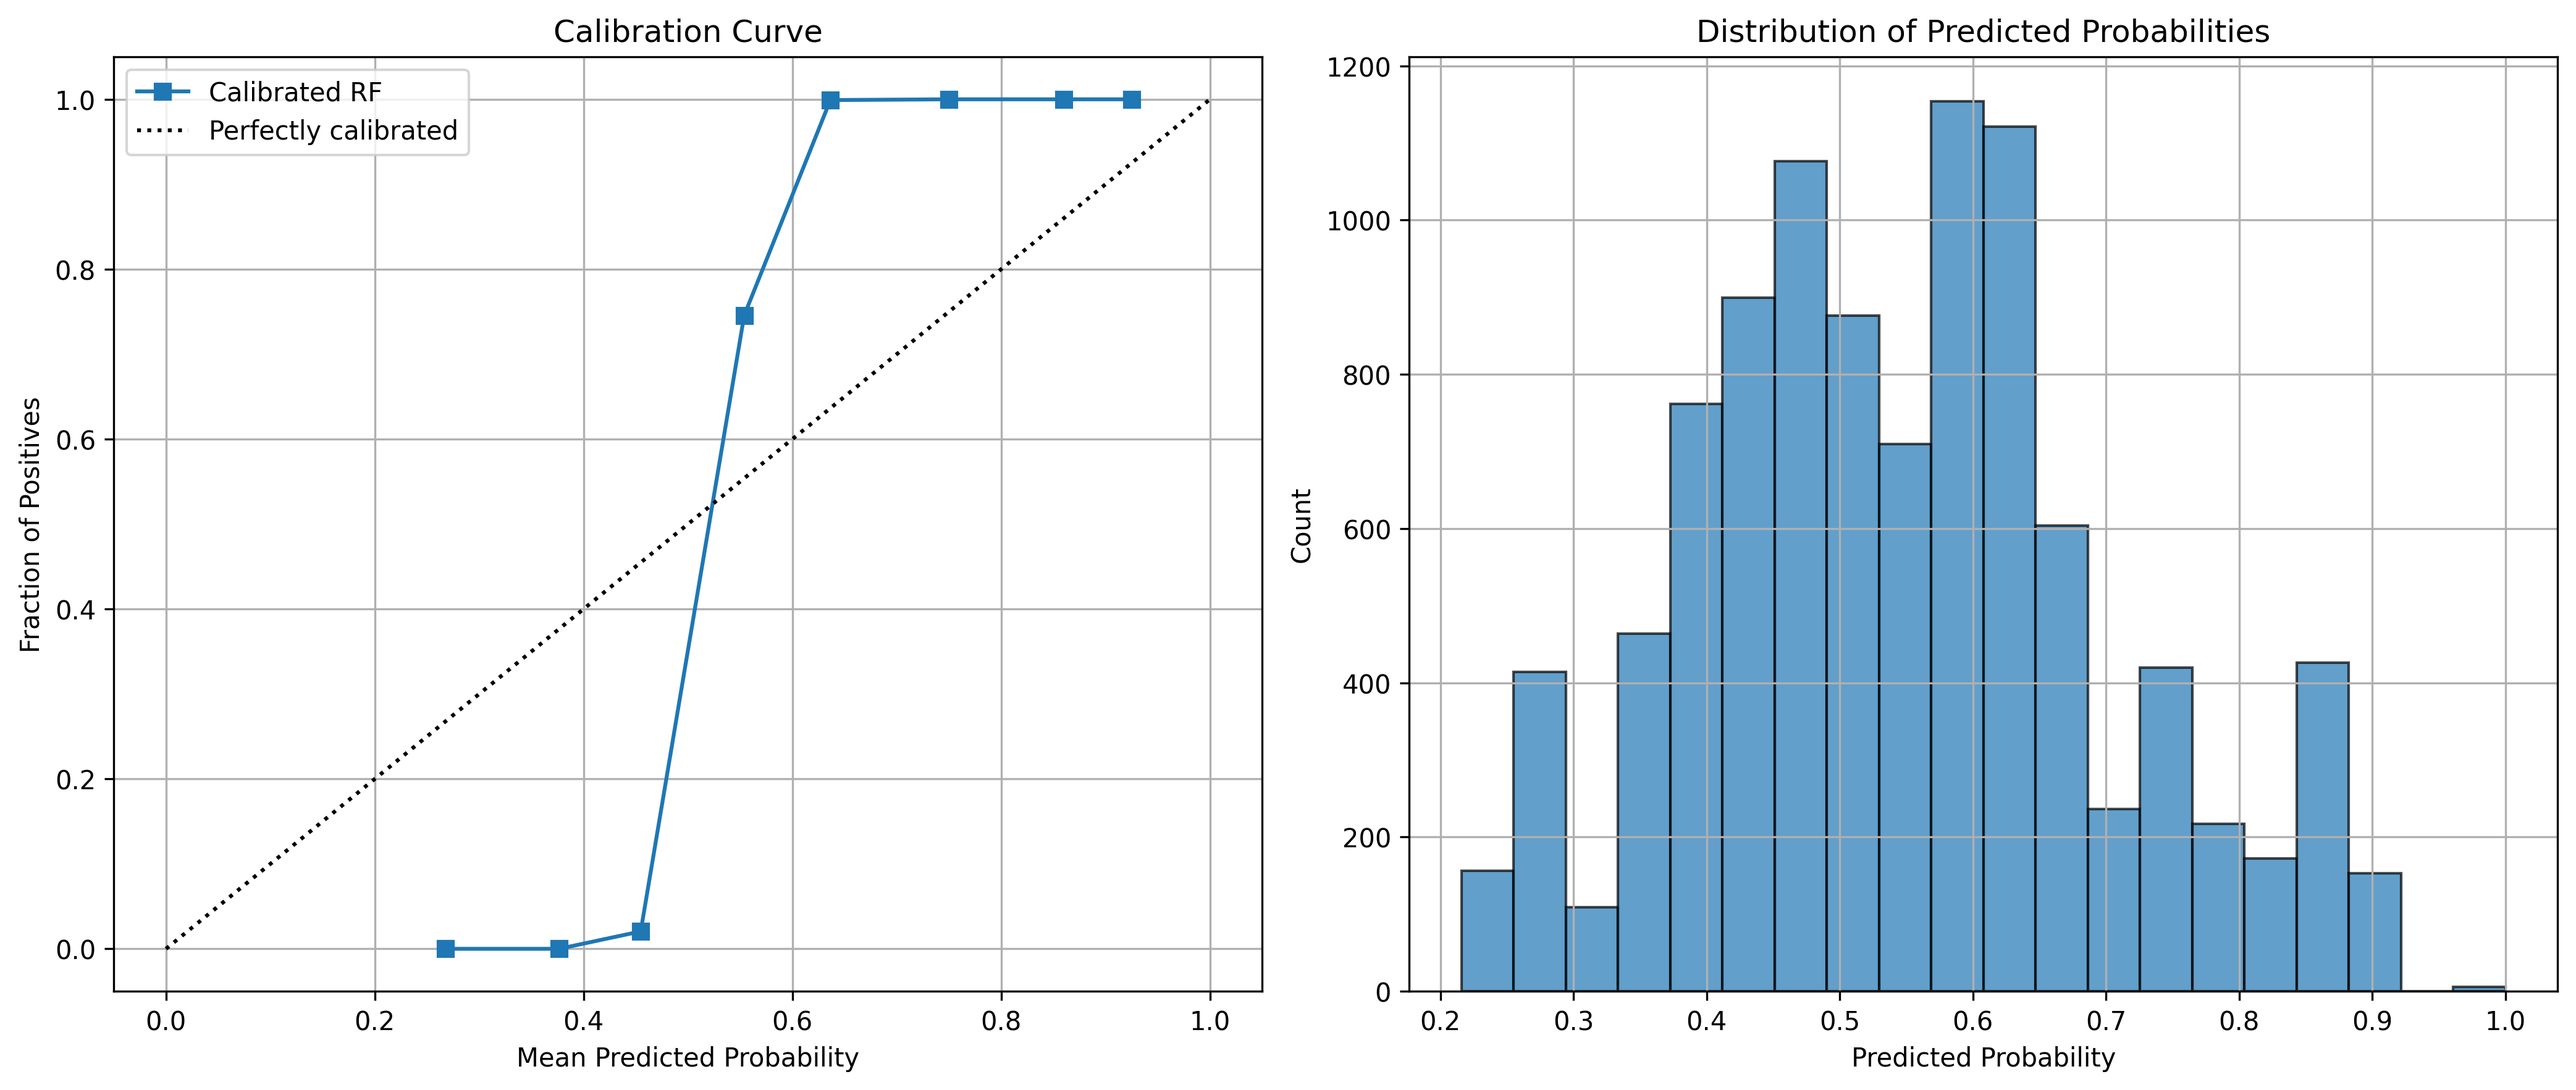
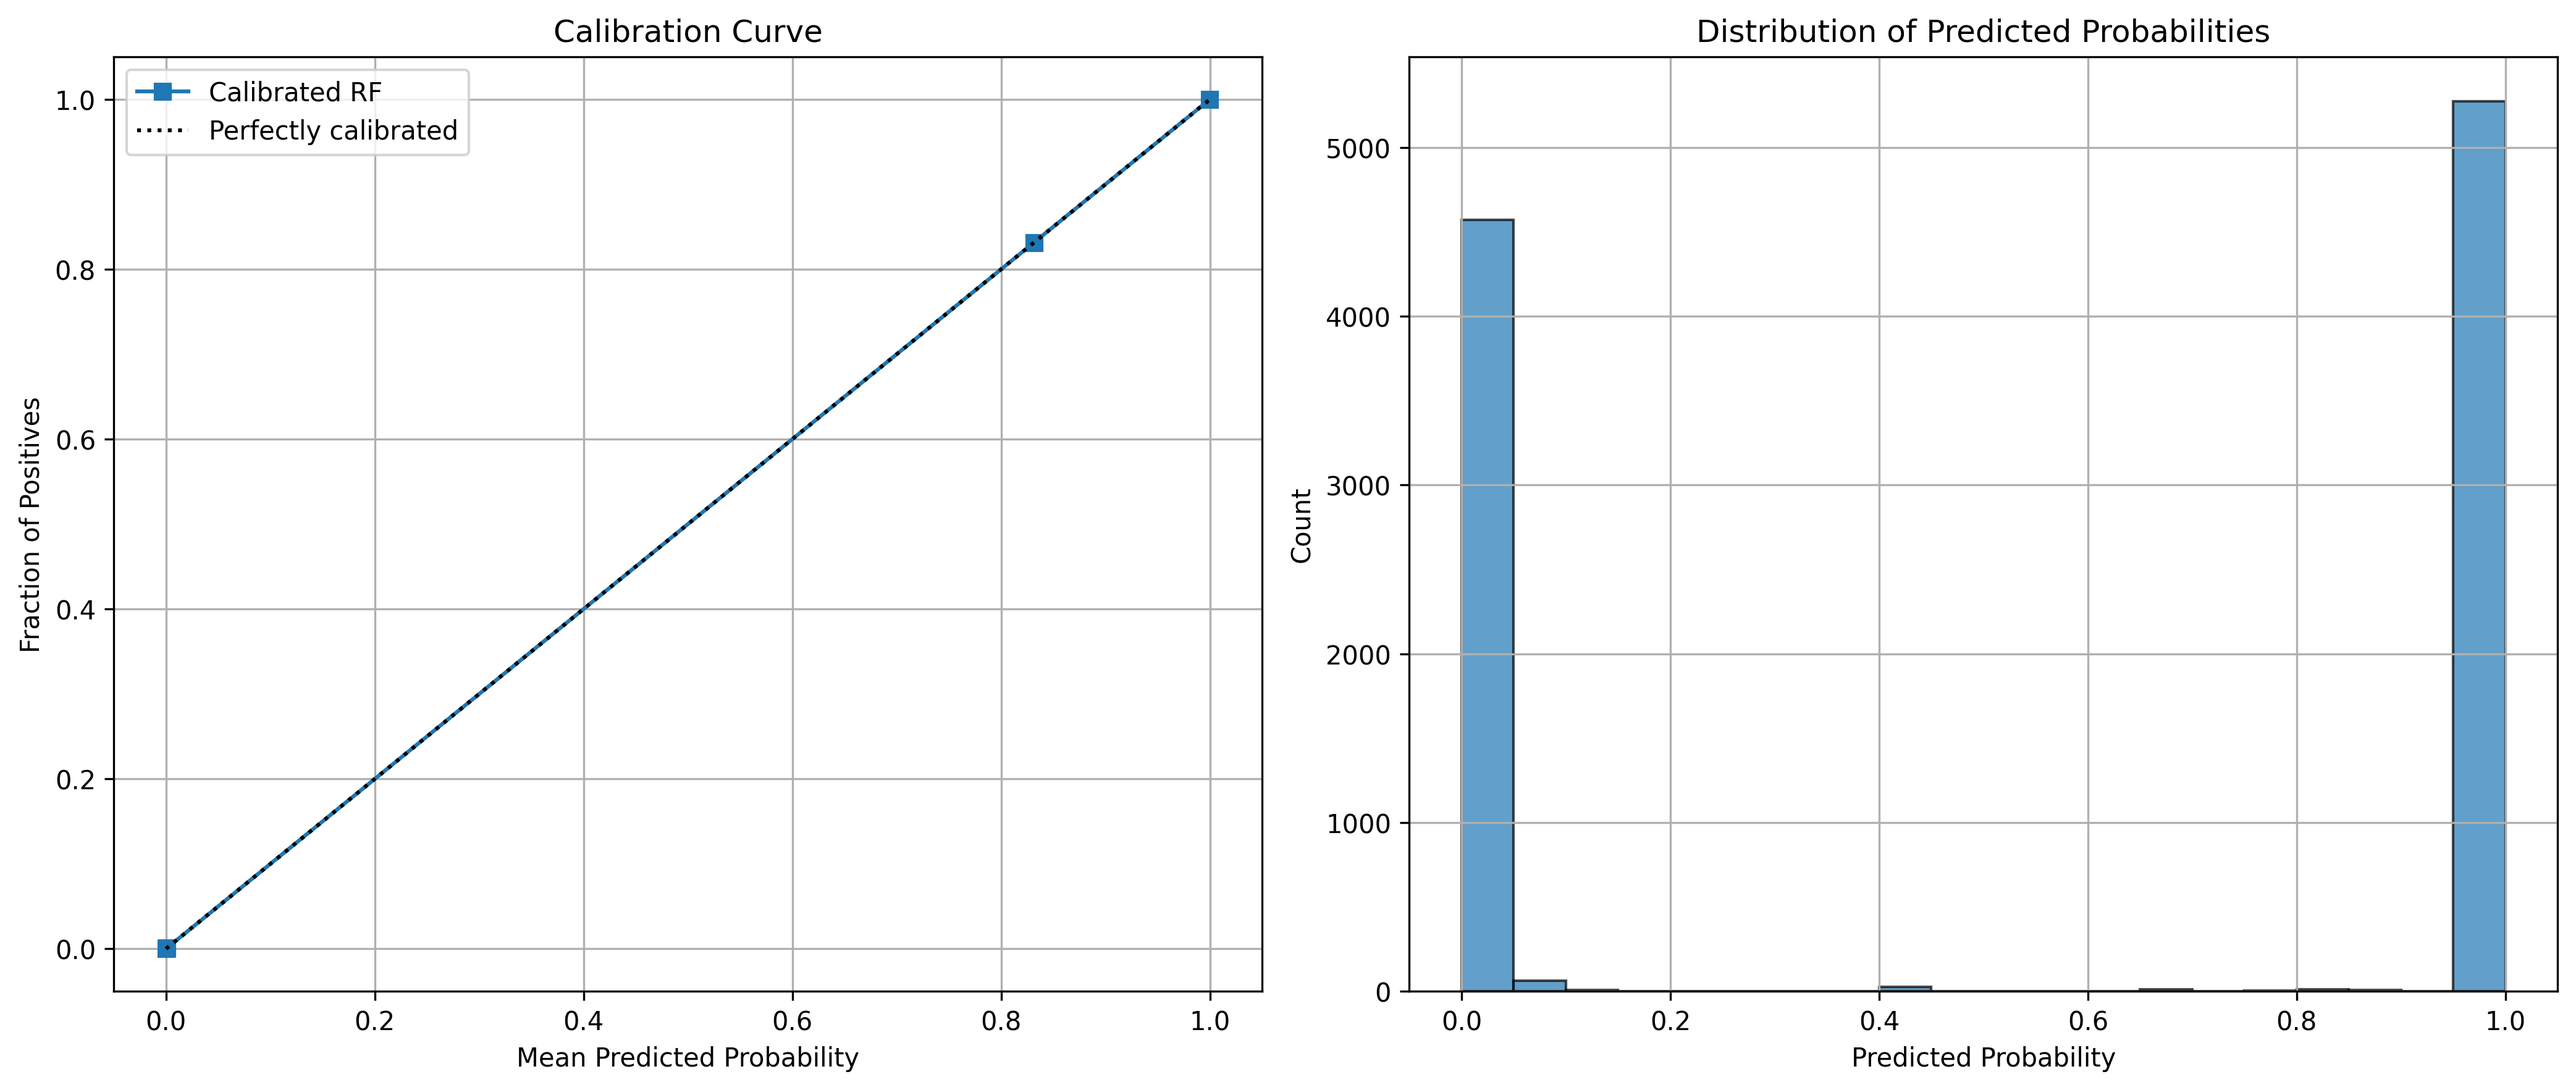
updates to model training

diff --git a/models/train_model.py b/models/train_model.py
@@ -24,6 +24,11 @@ import warnings
 
 import mlflow
 import mlflow.sklearn
+from mlflow.models.signature import infer_signature
+from mlflow.models import ModelSignature
+from mlflow.types.schema import ColSpec, Schema
+
+import lightgbm as lgb
 
 from models.utils_models import (
     load_model_data, 
@@ -38,6 +43,7 @@ logger = logging.getLogger(__name__)
 @dataclass
 class ModelConfig:
     """Configuration class for model training parameters"""
+    model_type: str
     hyperparams: Dict[str, Any]
     cv_params: Dict[str, Any]
     categorical_cols: List[str]
@@ -83,6 +89,13 @@ class MLBModelTrainer:
         self.category_maps = None # Stores dictionary of {col: [categories]} for 'category' dtype
         self.numerical_feature_names = None # Stores names of numerical features
         self.all_final_feature_names = None # Stores the complete ordered list of all feature names after encoding
+
+    def _get_lgbm_model(self):
+        """Initializes a LightGBM Classifier model with hyperparameters"""
+        lgbm_parameters = self.config.hyperparams.copy()
+        if self.config.encoding_type == "category":
+            lgbm_parameters['categorical_feature'] = self.config.categorical_cols
+        return lgb.LGBMClassifier(**lgbm_parameters)
 
     def _validate_data(self, X: pd.DataFrame, y: pd.Series, groups: pd.Series) -> None:
         """Validate input data for training."""
@@ -153,7 +166,8 @@ class MLBModelTrainer:
         gts = GroupTimeSeriesSplit(**self.config.cv_params)
 
         # Initialize base model
-        base_model = RandomForestClassifier(**self.config.hyperparams)
+        # base_model = lgb.LGBMClassifier(**self.config.hyperparams)
+        base_model = self._get_lgbm_model()
 
         # Storage for results
         fold_results = {
@@ -238,11 +252,14 @@ class MLBModelTrainer:
                     self.all_final_feature_names = fold_all_final_cols
                     self.feature_names = fold_all_final_cols
                 
+                # Fit LightGBM
+                base_model.fit(X_train_encoded_fold, y_train_fold)
+
                 # Create calibrated classifier
                 calibrated_model = CalibratedClassifierCV(
                     base_model, 
                     method=self.config.calibration_method,
-                    cv=3 # internal CV for calibration
+                    cv='prefit' 
                 )
                 
                 # Train calibrated model
@@ -345,11 +362,13 @@ class MLBModelTrainer:
         self.feature_names = self.all_final_feature_names
 
         # Create and train final model
-        base_model = RandomForestClassifier(**self.config.hyperparams)
+        #base_model = lgb.LGBMClassifier(**self.config.hyperparams)
+        base_model = self._get_lgbm_model()
+        base_model.fit(X_encoded, y)
         self.calibrated_model = CalibratedClassifierCV(
             base_model,
             method=self.config.calibration_method,
-            cv=3
+            cv='prefit'
         )
 
         self.calibrated_model.fit(X_encoded, y)
@@ -512,26 +531,38 @@ if __name__=='__main__':
 
         # Configuration
         config = ModelConfig(
+            model_type="lightgbm",
             hyperparams={
-                'min_samples_leaf': 5, 
-                'class_weight': 'balanced',
+                'objective': 'binary',
+                'metric': 'logloss',
+                'n_estimators': 500,        # Increased estimators for LGBM
+                'learning_rate': 0.05,      # Learning rate for boosting
+                'num_leaves': 31,           # Controls complexity of trees
+                'max_depth': -1,            # No limit on depth, often works well with num_leaves
+                'min_child_samples': 20,    # Minimum data in a leaf
+                'subsample': 0.8,           # Fraction of samples to be randomly sampled
+                'colsample_bytree': 0.8,    # Fraction of features to be randomly sampled per tree
                 'random_state': 888,
-                'n_jobs': -1
+                'n_jobs': -1,
+                'reg_alpha': 0.1,           # L1 regularization
+                'reg_lambda': 0.1,          # L2 regularization
+                'class_weight': 'balanced'  # Handle class imbalance
             },
             cv_params={
                 'test_size': 30,
-                'train_size': 360,
-                #'n_splits': 3, # for testing purposes
+                #'train_size': 360,
+                'n_splits': 3, # for testing purposes
                 'gap_size': 3,
                 'window_type': 'rolling'
             },
             categorical_cols=['home_team','away_team','venue','game_type'],
-            encoding_type='one-hot',
+            encoding_type='category',
             calibration_method='isotonic',
             random_state=888
         )
 
         # Log ModelConfig parameters
+        mlflow.log_param("model_type", config.model_type)
         mlflow.log_params(config.hyperparams)
         mlflow.log_params(config.cv_params)
         mlflow.log_param("categorical_cols", config.categorical_cols)
@@ -556,22 +587,34 @@ if __name__=='__main__':
         trainer.train_final_model(X_train_init, y_train_init)
 
         # Plot calibration curve
-        trainer.plot_calibration_curve(X_train_init, y_train_init, save_path='calibration_curve_train.png')
+        trainer.plot_calibration_curve(X_train_init, y_train_init, save_path='figures/calibration_curve_train.png')
         trainer.plot_calibration_curve(X_holdout, y_holdout, save_path='calibration_curve_holdout.png')
 
         # Save model
-        trainer.save_model('trained_mlb_model.pkl')
+        trainer.save_model('saved_models/trained_mlb_model.pkl')
 
         # Input example for MLflow
-        sample_input_raw = X_train_init.head(1)
+        sample_input_raw = X_train_init.head(1).copy()
         sample_input_transformed = trainer._get_transformed_data(sample_input_raw)
+        input_schema_cols = []
+        for col in sample_input_transformed.columns:
+            if col in config.categorical_cols:
+                input_schema_cols.append(ColSpec("string", col))
+            elif pd.api.types.is_integer_dtype(sample_input_transformed[col]):
+                input_schema_cols.append(ColSpec("long", col))
+            else:
+                input_schema_cols.append(ColSpec("double", col))
+        input_schema = Schema(input_schema_cols)
+        output_schema = Schema([ColSpec("double", "prediction_probability")])
+        signature = ModelSignature(inputs=input_schema, outputs=output_schema)
 
         # Log the trained CalibratedClassifierCV model
         mlflow.sklearn.log_model(
             sk_model=trainer.calibrated_model,
-            name="mlb_model",
-            registered_model_name="MLB_Calibrated_RF_Model",
-            input_example=sample_input_transformed
+            name="mlb_model_lightgbm",
+            registered_model_name="MLB_Calibrated_LGBM_Model",
+            input_example=sample_input_transformed,
+            signature=signature
         )
 
         # Evaluate on holdout set
